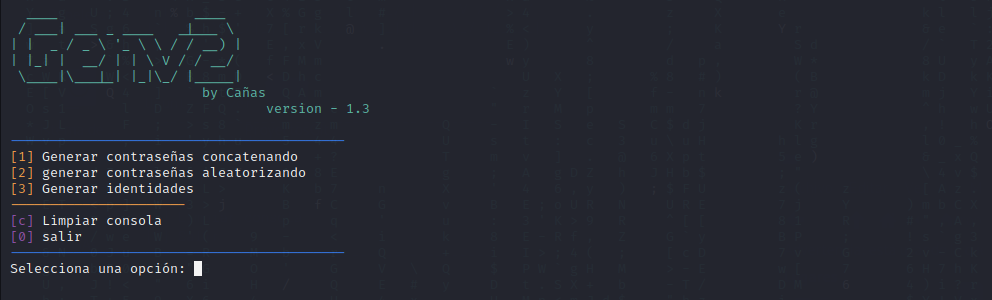
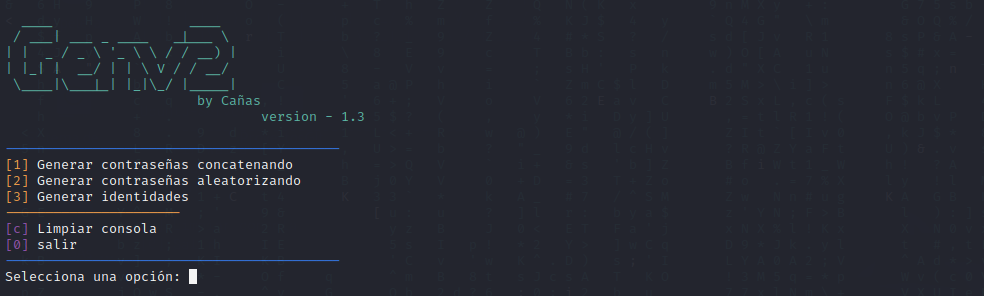
V3.1 commit GenV2

Changed region(s): [[0.0, 0.4561, 0.3354, 0.973], [0.0, 0.0608, 0.3963, 0.4257]]

diff --git a/menu.py b/menu.py
@@ -93,13 +93,13 @@ def menu():
     while True:
         print(colored('''------------------------------------------''', 'blue'))
         print(colored("[1]", 'yellow'), "Generar contraseñas concatenando")
-        print(colored("[2]", 'yellow'), "generar contraseñas aleatorizando")
+        print(colored("[2]", 'yellow'), "Generar contraseñas aleatorizando")
         print(colored("[3]", 'yellow'), "Generar identidades")        
         print(colored("----------------------", 'yellow'))
         print(colored("[c]", 'magenta'), "Limpiar consola")
         print(colored("[0]", 'magenta'), "salir")
         print(colored("------------------------------------------", 'blue'))
-        opcion = input("Selecciona una opción: ")
+        opcion = input(colored("Selecciona una opción: ", 'green'))
         os.system('clear')
 
         if opcion == "1":
